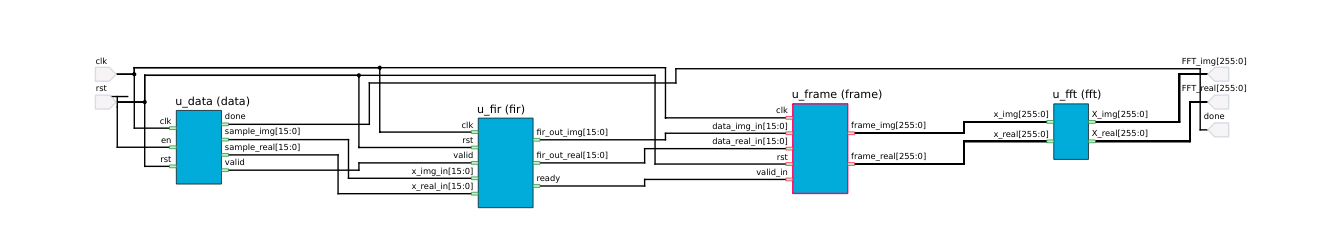
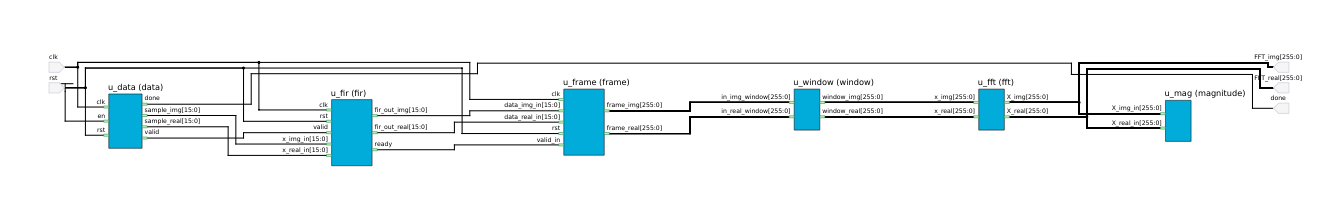
magnitude

Changed region(s): [[0.0308, 0.2192, 0.9865, 0.8493], [0.9556, 0.4384, 0.9865, 0.4658]]

diff --git a/README.md b/README.md
@@ -1,16 +1,21 @@
 ## OVERVIEW
-This project is an implementation of a real-time DSP pipeline using an FPGA. It consists of an input signal, a filtering stage using a 16-tap FIR filter, and a 16-point FFT using the Radix-2 Decimation in Frequency algorithm. All operations are done in Q1.15 format.
+This project is an implementation of a real-time DSP pipeline using an FPGA. It consists of an input signal, a filtering stage using a 16-tap FIR filter, a Hamming window, a 16-point FFT using the Radix-2 Decimation in Frequency algorithm and a magnitude squared computation. All operations are done in Q1.15 format.
 
 ## FIR Filter
 The FIR (Finite Impulse Response) filter is the first stage in the pipeline. It is a 16-tap filter with coefficients hard-coded into the design. The coefficients for the filter are symmetric, which is a characteristic of linear phase filters. The output of the filter is calculated as a weighted sum of the current and past 15 samples of the input. Each output sample is calculated independently for the real and imaginary components of the input. Thus, for each clock cycle with valid input data, there is a corresponding output sample.
+
+Hamming Window
+Before the FFT is computed, a Hamming window is applied to the 16 collected samples. The Hamming window coefficients are hardcoded in Q1.15 format.
+
+
 ## FFT
-The FFT stage consists of calculating the Discrete Fourier Transform of a sequence of 16 filtered samples using the Radix-2 Decimation in Frequency algorithm. The DFT converts the signal from the time domain to the frequency domain, showing the amount of each frequency present in the signal. A naive DFT would require O(N²) multiplications, but the Radix-2 FFT reduces the number of multiplications to O(N log N) using a divide-and-conquer approach to recursively divide the DFT into smaller butterfly operations. Each butterfly takes two complex numbers as input, applies a twiddle factor, and produces two complex output numbers. The FFT has 4 stages of butterflies to calculate the 16-point DFT, with twiddle factors precomputed and stored in Q1.15 format.
+The FFT stage consists of calculating the Discrete Fourier Transform of a sequence of 16 filtered samples using the Radix-2 Decimation in Frequency algorithm. A naive DFT would require O(N²) multiplications, but the Radix-2 FFT reduces the number of multiplications to O(N log N) using a divide-and-conquer approach to recursively divide the DFT into smaller butterfly operations. Each butterfly takes two complex numbers as input, applies a twiddle factor, and produces two complex output numbers. The FFT has 4 stages of butterflies to calculate the 16-point DFT, with twiddle factors precomputed and stored in Q1.15 format.
+
+## Magnitude Squared
+After the FFT, the magnitude squared is computed for each of the 16 frequency bins. Rather than computing the true magnitude (which requires a square root), the magnitude squared is used.
 
 # ![Netlist](netlist.png)
 
 ## Planned
-- Hamming Window
-- Magnitude
-- Power
 - Threshold (CFAR)
 - Peak Detector
